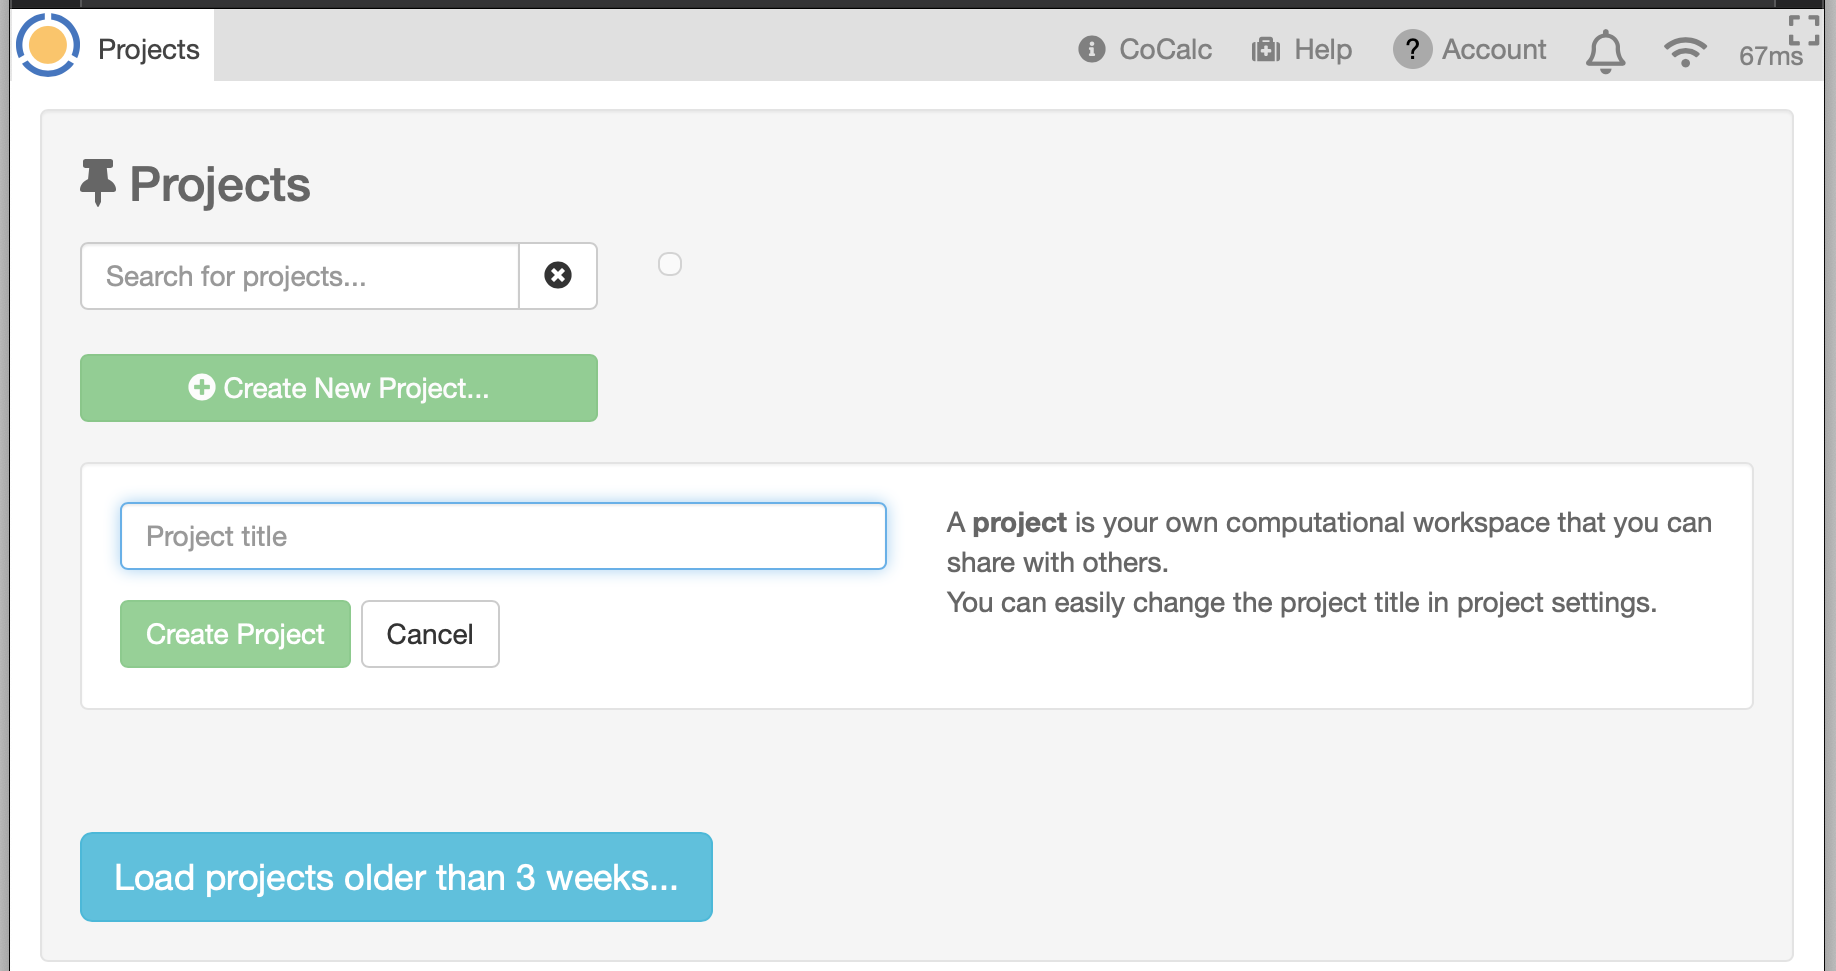
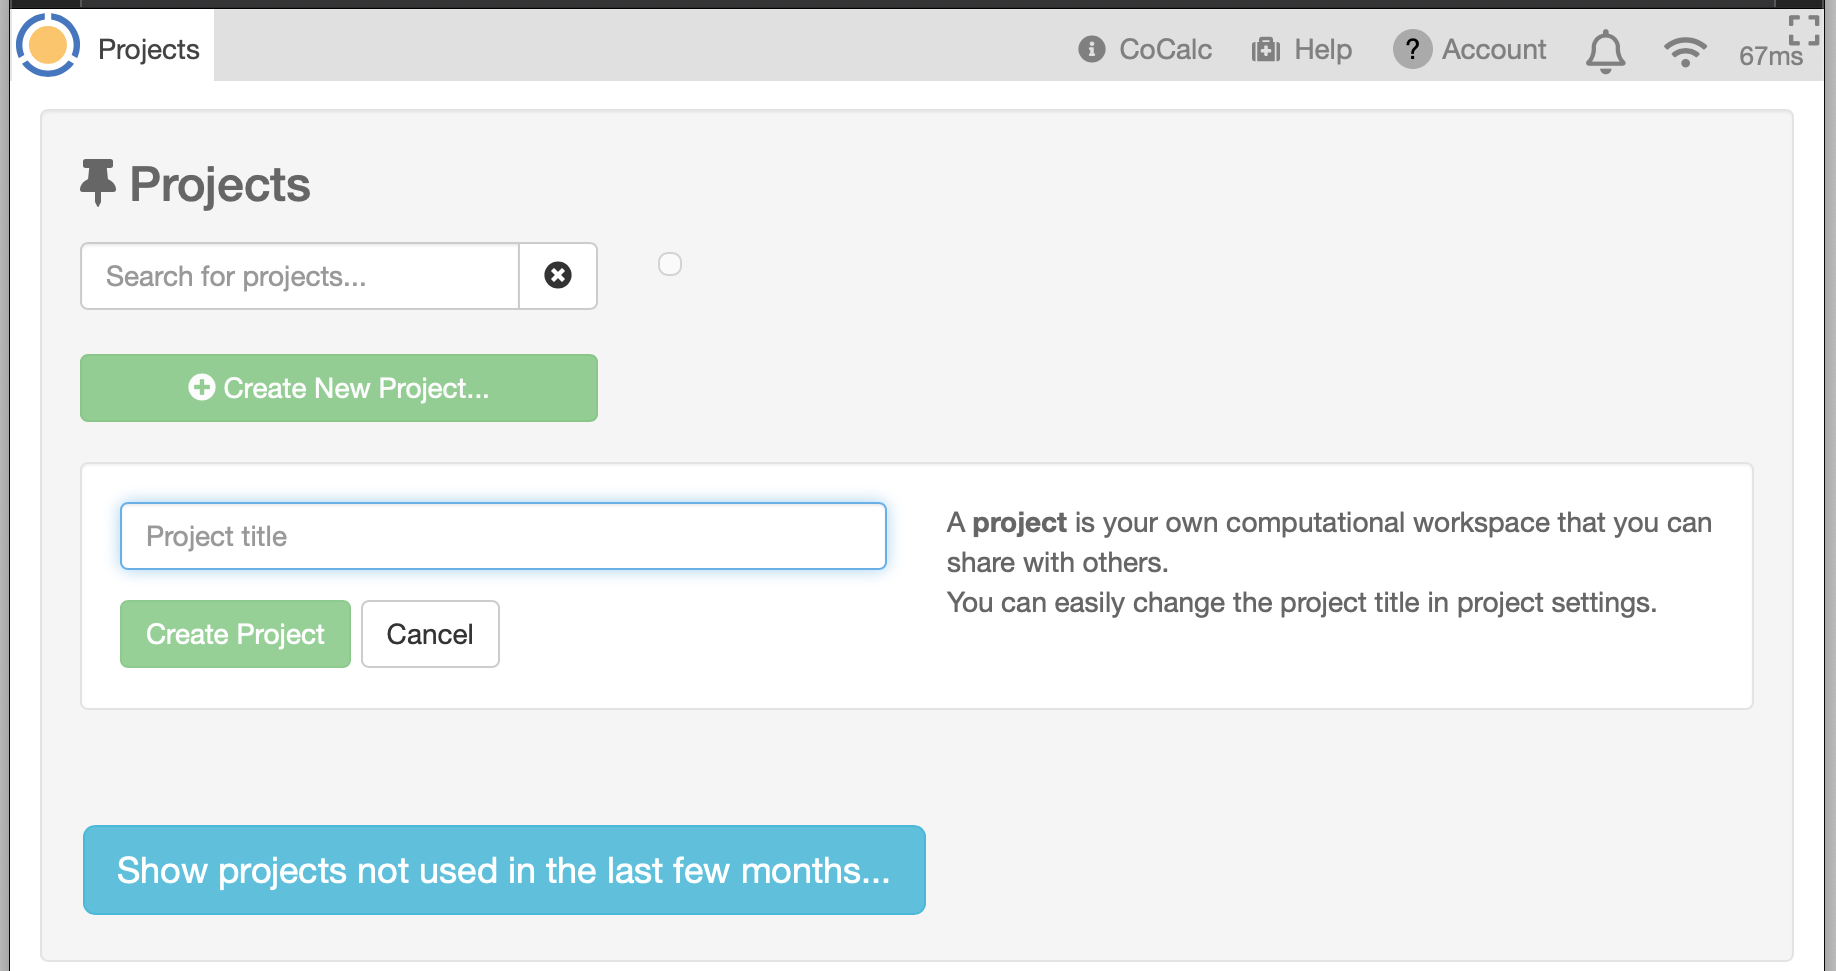
new project list and log cutoffs

Changed region(s): [[0.031, 0.8342, 0.5278, 0.9578]]

diff --git a/source/project-log.rst b/source/project-log.rst
@@ -76,7 +76,7 @@ By typing any string into the "Search log..." box, you can limit the log entries
 Load older entries
 ---------------------
 
-The initial project log shows at most 300 entries from the last 30 days. When you click "Load older..." it gets up 7500 log entries going back as long as you want. The display returns to the shorter list if you refresh your browser.
+The initial project log shows at most 300 entries from the last 2 months. When you click "Load older..." it gets up 7500 log entries going back as long as you want. The display returns to the shorter list if you refresh your browser.
 
 .. |history|
      image:: https://github.com/encharm/Font-Awesome-SVG-PNG/raw/master/black/png/128/history.png

diff --git a/source/project-list.rst b/source/project-list.rst
@@ -30,7 +30,7 @@ After you have some projects, there's more to see:
 
      ..
 
-If you have a large number of projects, the initial display will be limited to 50 projects, and projects active within the past 3 weeks. The list can be expanded as needed using "Load projects older than 3 weeks..." or "Load n More Matching Projects..." buttons at the bottom.
+If you have a large number of projects, the initial display will be limited to 50 projects, and projects active within the past 2 months. The list can be expanded as needed using "Show projects not used in the last few months..." or "Load n More Matching Projects..." buttons at the bottom.
 
 .. index:: Projects; search for
 .. _project_search:
